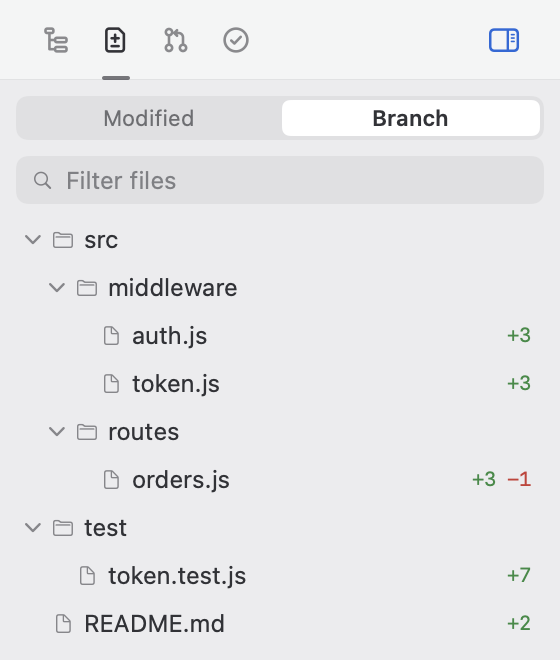
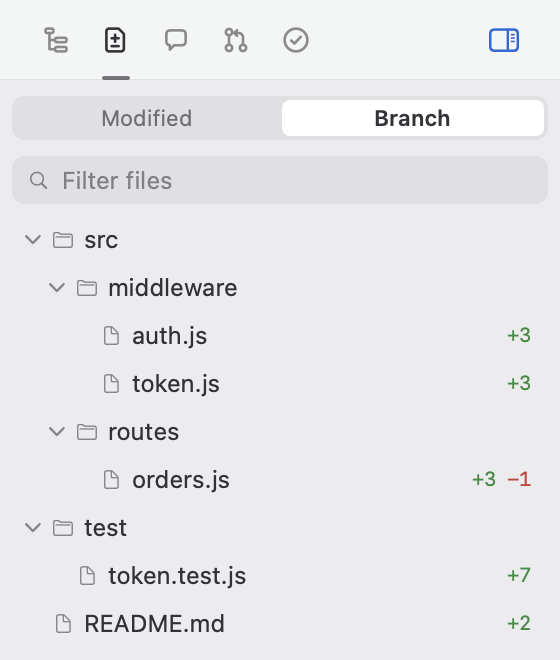
[Docs] Retake the README screenshots and show review comments
The shots predated the larger state dots, the board cards without
dots, the Review panel tab and the pull request page laid out as
steps toward its merge. A new feature row shows comment cards in a
split diff beside the Review panel's Send.

- Describe the merge steps and review comments in the README text,
  and name review comments among what the command line drives
- Show every state in the demo: two agents waiting on a real
  permission prompt, two working, the rest done or idle

diff --git a/README.md b/README.md
@@ -22,10 +22,10 @@
 </p>
 
 <p align="center">
-  <picture>
-    <source media="(prefers-color-scheme: dark)" srcset="Screenshots/screenshot-dark.png">
-    <img src="Screenshots/screenshot-light.png" width="900" alt="Multishell with projects and worktrees in the sidebar, Claude Code split above a shell on the left, a second Claude Code on the right, pull request and CI marks on the worktree rows, and the Git panel listing the branch's changes">
-  </picture>
+  <a href="Screenshots/screenshot-light.png"><picture>
+    <source media="(prefers-color-scheme: dark)" srcset="Screenshots/small/screenshot-dark.png">
+    <img src="Screenshots/small/screenshot-light.png" width="900" alt="Multishell with projects and worktrees in the sidebar, Claude Code split above a shell on the left, a second Claude Code on the right, pull request and CI marks on the worktree rows, and the Git panel listing the branch's changes">
+  </picture></a>
 </p>
 
 Five agents in five worktrees usually means five terminal windows and no idea
@@ -63,10 +63,10 @@ under it. A dot says working, waiting on you, done or failed. Rows add the lines
 changed, the branch's pull request and its latest CI run.
 </td>
 <td width="55%" align="center">
-<picture>
-  <source media="(prefers-color-scheme: dark)" srcset="Screenshots/screenshot-sidebar-dark.png">
-  <img src="Screenshots/screenshot-sidebar-light.png" width="320" alt="The sidebar: three projects, their worktrees with state dots, line counts, pull request and CI marks, and the agent tabs of the selected worktree">
-</picture>
+<a href="Screenshots/screenshot-sidebar-light.png"><picture>
+  <source media="(prefers-color-scheme: dark)" srcset="Screenshots/small/screenshot-sidebar-dark.png">
+  <img src="Screenshots/small/screenshot-sidebar-light.png" width="240" alt="The sidebar: three projects, their worktrees with state dots, line counts, pull request and CI marks, and the agent tabs of the selected worktree">
+</picture></a>
 </td>
 </tr>
 <tr>
@@ -76,11 +76,11 @@ Tabs, splits and side-by-side groups per worktree, drawn by libghostty. Every
 terminal keeps running while you look at another worktree, and a tab dragged to
 another worktree moves without restarting.
 </td>
-<td width="55%">
-<picture>
-  <source media="(prefers-color-scheme: dark)" srcset="Screenshots/screenshot-panes-dark.png">
-  <img src="Screenshots/screenshot-panes-light.png" width="100%" alt="A tab group with Claude Code split above a shell">
-</picture>
+<td width="55%" align="center">
+<a href="Screenshots/screenshot-panes-light.png"><picture>
+  <source media="(prefers-color-scheme: dark)" srcset="Screenshots/small/screenshot-panes-dark.png">
+  <img src="Screenshots/small/screenshot-panes-light.png" width="320" alt="A tab group with Claude Code split above a shell">
+</picture></a>
 </td>
 </tr>
 <tr>
@@ -91,10 +91,10 @@ its base, so an agent's commits stay listed. Every file shows the lines it
 gained and lost.
 </td>
 <td width="55%" align="center">
-<picture>
-  <source media="(prefers-color-scheme: dark)" srcset="Screenshots/screenshot-git-dark.png">
-  <img src="Screenshots/screenshot-git-light.png" width="300" alt="The Git panel under Branch, listing changed files with their line counts">
-</picture>
+<a href="Screenshots/screenshot-git-light.png"><picture>
+  <source media="(prefers-color-scheme: dark)" srcset="Screenshots/small/screenshot-git-dark.png">
+  <img src="Screenshots/small/screenshot-git-light.png" width="300" alt="The Git panel under Branch, listing changed files with their line counts">
+</picture></a>
 </td>
 </tr>
 <tr>
@@ -105,28 +105,44 @@ by side. Arrows step from one change to the next. An image opens too, its
 committed copy beside the new one.
 </td>
 <td width="55%">
-<picture>
-  <source media="(prefers-color-scheme: dark)" srcset="Screenshots/screenshot-diff-dark.png">
-  <img src="Screenshots/screenshot-diff-light.png" width="100%" alt="A file tab showing rate-limit.js side by side, the committed lines on the left and the new ones on the right, highlighted as JavaScript">
-</picture>
+<a href="Screenshots/screenshot-diff-light.png"><picture>
+  <source media="(prefers-color-scheme: dark)" srcset="Screenshots/small/screenshot-diff-dark.png">
+  <img src="Screenshots/small/screenshot-diff-light.png" width="100%" alt="A file tab showing rate-limit.js side by side, the committed lines on the left and the new ones on the right, highlighted as JavaScript">
+</picture></a>
+</td>
+</tr>
+<tr>
+<td width="45%" valign="middle">
+<h3>Send review comments to an agent</h3>
+Comment on any lines of a diff from its gutter. Review in the Files panel gathers
+every comment, and Send writes them to one file and mentions it in the prompt of
+the agent you pick, leaving Return to you. A comment follows its lines through
+later edits.
+</td>
+<td width="55%">
+<a href="Screenshots/screenshot-review-light.png"><picture>
+  <source media="(prefers-color-scheme: dark)" srcset="Screenshots/small/screenshot-review-dark.png">
+  <img src="Screenshots/small/screenshot-review-light.png" width="100%" alt="A side-by-side diff of rate-limit.js with two comment cards under the lines they are on, and the Review panel listing both comments to send to Claude Code">
+</picture></a>
 </td>
 </tr>
 <tr>
 <td width="45%" valign="middle">
 <h3>Merge once the checks pass</h3>
-A row's pull request or CI mark opens its page in the side panel: the review,
-each check, and the failing job's log. Merge from there with GitHub's own commit
-message, or turn on auto-merge while required checks still run.
+A row's pull request or CI mark opens its page in the side panel: each step left
+before the merge and what clears it, every check, and the failing job's log.
+Merge from there with GitHub's own commit message, or turn on auto-merge while
+required checks still run.
 </td>
 <td width="55%" align="center">
-<picture>
-  <source media="(prefers-color-scheme: dark)" srcset="Screenshots/screenshot-pr-dark.png">
-  <img src="Screenshots/screenshot-pr-light.png" width="48%" alt="A pull request page reading Ready to merge, with a Merge button and five passing checks">
-</picture>
-<picture>
-  <source media="(prefers-color-scheme: dark)" srcset="Screenshots/screenshot-ci-dark.png">
-  <img src="Screenshots/screenshot-ci-light.png" width="48%" alt="A CircleCI page for a failed run, with the failing test job's log excerpt">
-</picture>
+<a href="Screenshots/screenshot-pr-light.png"><picture>
+  <source media="(prefers-color-scheme: dark)" srcset="Screenshots/small/screenshot-pr-dark.png">
+  <img src="Screenshots/small/screenshot-pr-light.png" width="48%" alt="A pull request page as steps toward its merge: no conflicts, four of four required checks passed, review approved, and a Merge button">
+</picture></a>
+<a href="Screenshots/screenshot-ci-light.png"><picture>
+  <source media="(prefers-color-scheme: dark)" srcset="Screenshots/small/screenshot-ci-dark.png">
+  <img src="Screenshots/small/screenshot-ci-light.png" width="48%" alt="A CircleCI page for a failed run, with the failing test job's log excerpt">
+</picture></a>
 </td>
 </tr>
 <tr>
@@ -137,20 +153,27 @@ still working. Type to reach any worktree, tab or file, or start with
 <code>&gt;</code> to run a menu command.
 </td>
 <td width="55%" align="center">
-<picture>
-  <source media="(prefers-color-scheme: dark)" srcset="Screenshots/screenshot-switcher-dark.png">
-  <img src="Screenshots/screenshot-switcher-light.png" width="100%" alt="The quick switcher on its Agents scope: two agents waiting for input, two working, four done">
-</picture>
+<a href="Screenshots/screenshot-switcher-light.png"><picture>
+  <source media="(prefers-color-scheme: dark)" srcset="Screenshots/small/screenshot-switcher-dark.png">
+  <img src="Screenshots/small/screenshot-switcher-light.png" width="100%" alt="The quick switcher on its Agents scope: two agents waiting for input, two working, one done, then those with nothing running">
+</picture></a>
+</td>
+</tr>
+<tr>
+<td width="45%" valign="middle">
+<h3>Every agent on one board</h3>
+⇧⌘A lays every agent out by state: waiting on you, working, done or idle. Each
+card names its project and worktree, the lines it changed and how long it has
+been in that state.
+</td>
+<td width="55%">
+<a href="Screenshots/screenshot-board-light.png"><picture>
+  <source media="(prefers-color-scheme: dark)" srcset="Screenshots/small/screenshot-board-dark.png">
+  <img src="Screenshots/small/screenshot-board-light.png" width="100%" alt="The Agents board: columns for waiting, working, done and idle, each card naming its project, worktree, lines changed and how long it has been in that state">
+</picture></a>
 </td>
 </tr>
 </table>
-
-<p align="center">
-  <picture>
-    <source media="(prefers-color-scheme: dark)" srcset="Screenshots/screenshot-board-dark.png">
-    <img src="Screenshots/screenshot-board-light.png" width="900" alt="The Agents board: columns for waiting, working, done and idle, each card naming its project, worktree, lines changed and how long it has been in that state">
-  </picture>
-</p>
 
 ### Agents
 
@@ -203,6 +226,7 @@ still working. Type to reach any worktree, tab or file, or start with
 - **Syntax highlighting follows embedded code**, such as a Svelte file's scripts
   and styles or a Markdown fence in the language it names.
 - **Arrows in a file tab** step from one change to the next.
+- **Review comments** on a diff's lines go to an agent all at once.
 - **Your shell rc files are never edited.**
 
 ### Keyboard
@@ -224,8 +248,8 @@ still working. Type to reach any worktree, tab or file, or start with
 ### Scripting
 
 The `multishell` command drives the app: projects, worktrees, tabs, panes,
-settings and screenshots. Multishell's own terminals have it on their `PATH`,
-and Settings > Agents > Agent hooks > Install CLI links it into
+review comments, settings and screenshots. Multishell's own terminals have it on
+their `PATH`, and Settings > Agents > Agent hooks > Install CLI links it into
 `/usr/local/bin`.
 
 ```sh
@@ -241,6 +265,7 @@ rate, CPU, memory and git timings.
 
 You need:
 
+- an Apple silicon Mac; Intel Macs are not supported
 - macOS 26 Tahoe or later
 - Xcode 26 or later (Swift 6.2), not only the command line tools
 - the Zig version Ghostty pins, `zig@0.17` today
@@ -286,8 +311,10 @@ The full build notes are in
 
 ### Agent hooks
 
-zsh, bash and fish report their state with no setup. Agents report through their
-own hooks, so their dots stay still until you add them:
+zsh, bash and fish report their state with no setup, and Claude Code and Codex
+report theirs to the terminal themselves. Hooks add the subagents and background
+shells those two have out. Every other agent reports only through its hooks, so
+its dots stay still until you add them:
 
 1. Open Settings > Agents > Agent hooks.
 2. Click Add beside each agent. Multishell adds its entries to the agent's
@@ -300,7 +327,7 @@ shell and agent goes.
 
 ## Status
 
-- macOS 26 and later, built and run on Apple silicon. Intel is untested.
+- macOS 26 and later on Apple silicon. Intel Macs are not supported.
 - English only.
 
 Every line of code was written by an AI (Claude), directed by a human who set

diff --git a/COMPAT.md b/COMPAT.md
@@ -2,14 +2,16 @@
 
 Shell integration is injected into this app's terminals, and agent hooks are
 written into the agent's own config on your click. An unsupported shell is still
-a working terminal, and an agent without hooks still launches and resumes; it
-just never updates the state indicator dot.
+a working terminal, and an agent without hooks still launches and resumes. Its
+state dot stays still unless it reports its own state, as Claude Code and Codex
+do.
 
 ## Platform
 
 | Item            | Value                           |
 | --------------- | ------------------------------- |
 | macOS           | 26 Tahoe and newer              |
+| Architecture    | Apple silicon; no Intel         |
 | Other platforms | None                            |
 | Build           | Xcode 26 or newer               |
 | libghostty      | Ghostty's Zig, Metal toolchain  |
@@ -20,9 +22,9 @@ just never updates the state indicator dot.
 `make build` builds for the machine it runs on, `arch=$(uname -m)` in
 `Scripts/build-lib.sh`, and libghostty for it alone,
 `-Dxcframework-target=native` in `Scripts/build-ghostty.sh`, so the binary is
-single-architecture rather than universal. Only Apple silicon has been built and
-run here; Intel is unbuilt and untested. Only Xcode 27 has been built with, the
-floor of 26 resting on `xcodebuild` behaving there as it does in 27; see
+single-architecture rather than universal. Intel Macs are not supported, and the
+app has never been built on one. Only Xcode 27 has been built with, the floor of
+26 resting on `xcodebuild` behaving there as it does in 27; see
 [#23](https://github.com/KieranP/multishell/issues/23).
 
 A git older than 2.36 has no `-z` for `git worktree list`, so the app reads the
